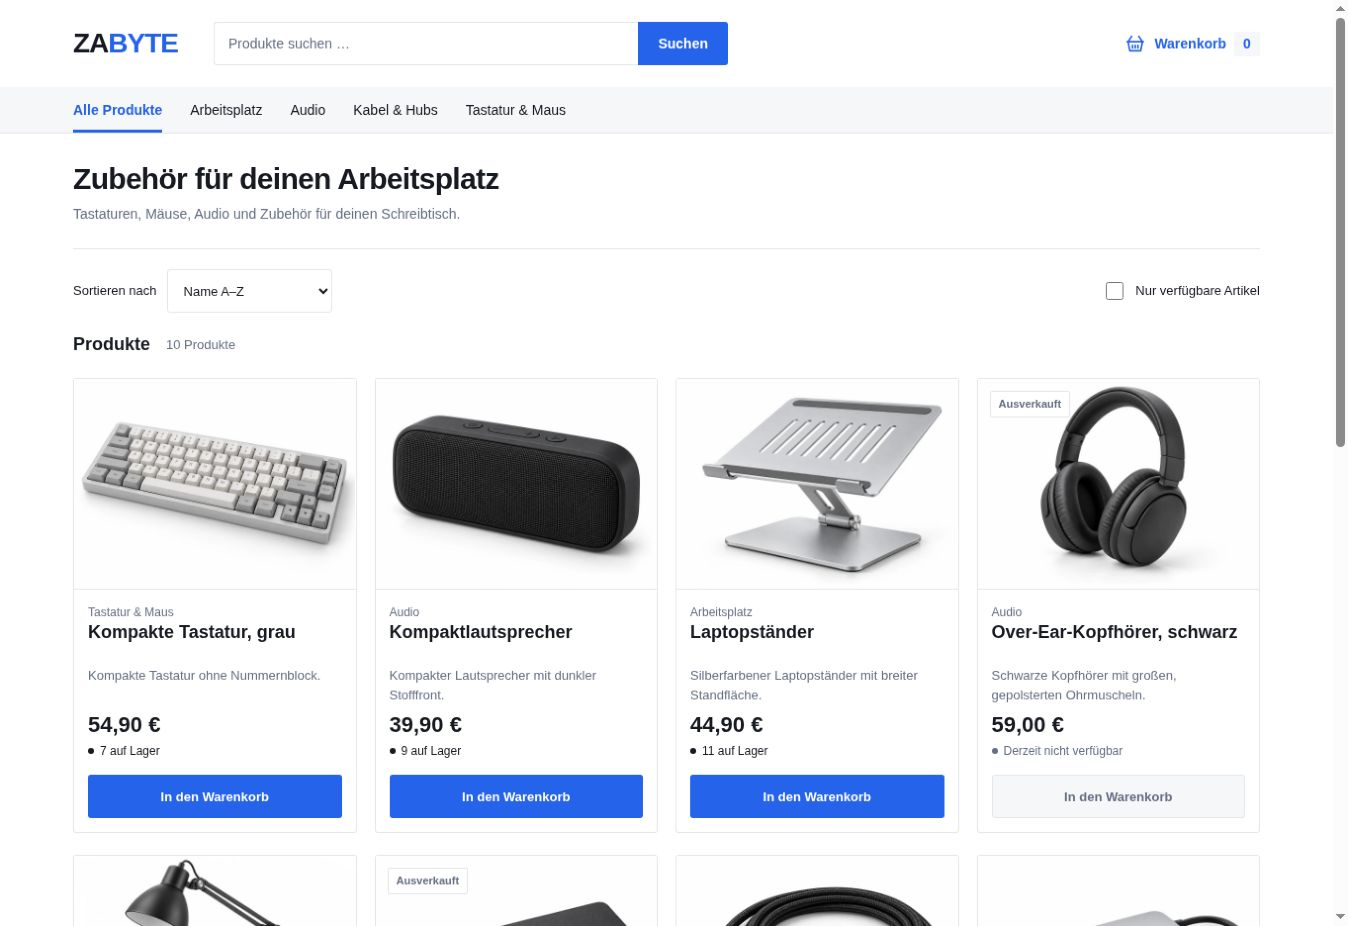
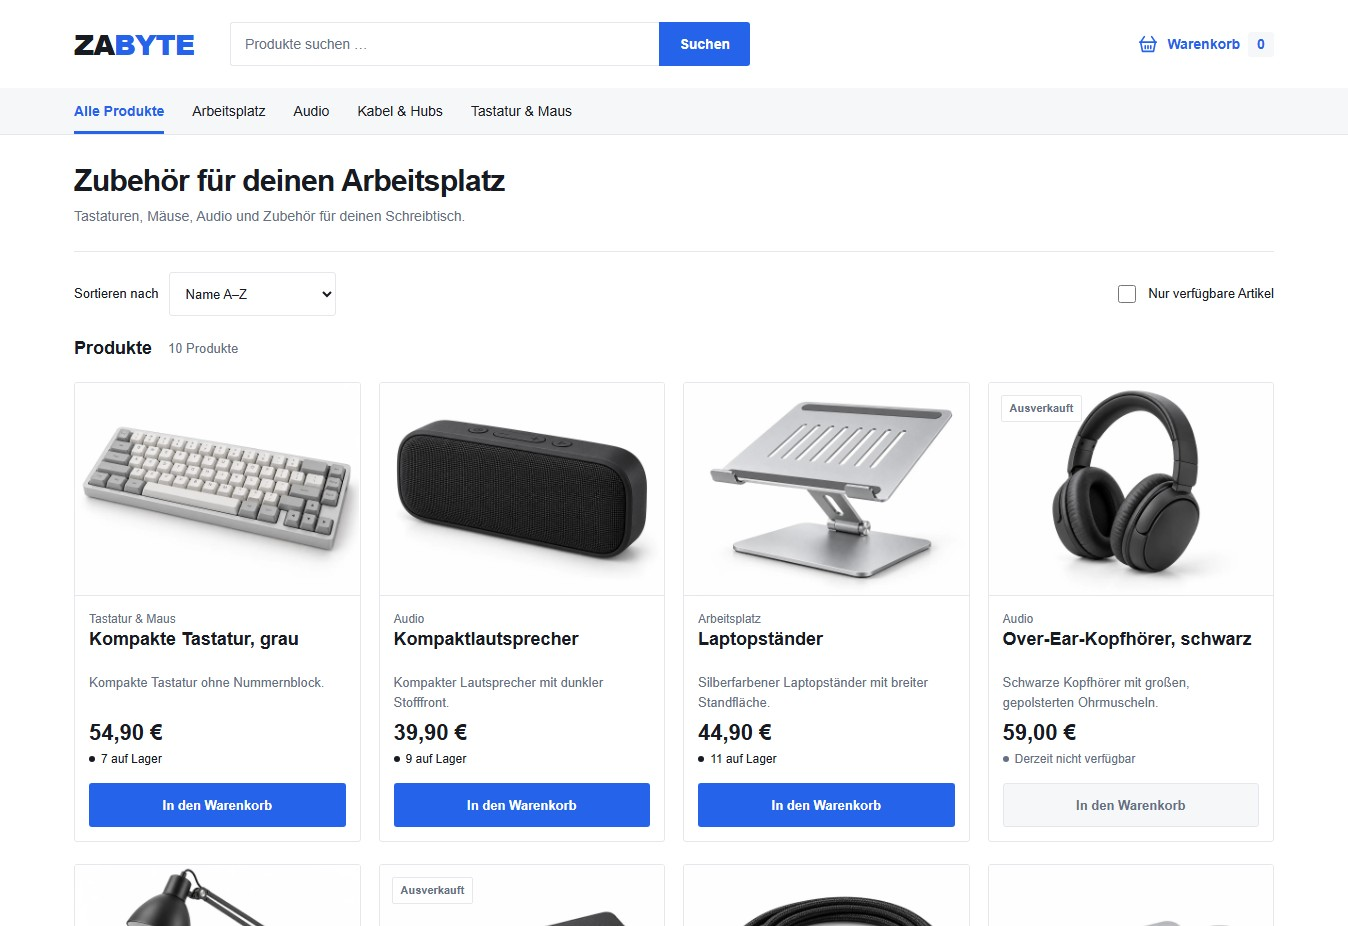
Refresh project screenshots and document verified demos

diff --git a/src/data/projects.ts b/src/data/projects.ts
@@ -53,10 +53,14 @@ export const projects: Project[] = [
       "Termine zum Nachfassen einsehen",
     ],
     technologies: ["Angular", "TypeScript", "Django REST Framework", "SQLite"],
-    implementation: "Das Angular-Frontend kommuniziert über eine REST-API mit dem Django-Backend. Die API prüft die Eingaben und speichert die Bewerbungen in SQLite. Automatisierte Tests überprüfen unter anderem das Anlegen, Bearbeiten und Löschen sowie den Umgang mit ungültigen Daten.",
+    implementation: "Das Angular-Frontend kommuniziert über eine REST-API mit dem Django-Backend. Die API prüft die Eingaben und speichert die Bewerbungen in SQLite. Automatisierte Tests überprüfen unter anderem das Anlegen, Bearbeiten und Löschen sowie den Umgang mit ungültigen Daten. Eine separate Demo-Konfiguration nutzt eine eigene Datenbank mit fiktiven Bewerbungen. Ein Betreiberbefehl stellt die Beispieldaten wieder her.",
     repository: "https://github.com/Zacariasaibel/BewerbungsTracker",
     note: "Lokales MVP mit fiktiven Daten. Keine öffentliche Demo.",
-    images: [{ src: "/images/projects/bewerbungstracker-dashboard.png", alt: "Dashboard des BewerbungsTrackers mit Übersicht und Bewerbungsverwaltung", width: 1093, height: 946 }],
+    images: [
+      { src: "/images/projects/bewerbungstracker-dashboard.png", alt: "Dashboard des BewerbungsTrackers mit Übersicht und Bewerbungsverwaltung", width: 1093, height: 946 },
+      { src: "/images/projects/bewerbungstracker-filter.png", alt: "Bewerbungsliste mit Unternehmenssuche und drei fiktiven Bewerbungen im Status Vorstellungsgespräch", width: 1440, height: 1000 },
+      { src: "/images/projects/bewerbungstracker-formular.png", alt: "Formular für eine neue Bewerbung mit fiktivem Unternehmen, Position und Notizen", width: 1440, height: 1200 },
+    ],
   },
   {
     slug: "olimpoathlete",
@@ -91,7 +95,7 @@ export const projects: Project[] = [
       "CORS-Unterstützung für die Anbindung eines separaten Frontends",
     ],
     technologies: ["Python", "Django REST Framework", "SQLite", "REST / JSON"],
-    implementation: "Generische Views von Django REST Framework stellen die Endpunkte zum Lesen, Anlegen, Aktualisieren und Löschen bereit. Ein Serializer prüft die Eingabefelder und verarbeitet Produkt- und Bestandsdaten. Die Daten werden in SQLite gespeichert und als JSON zurückgegeben.",
+    implementation: "Generische Views von Django REST Framework stellen die Endpunkte zum Lesen, Anlegen, Aktualisieren und Löschen bereit. Ein Serializer prüft die Eingabefelder und weist negative Preise und Bestände zurück. Produkt und Bestand werden gemeinsam in einer Datenbanktransaktion gespeichert. Die API liefert JSON und eine Oberfläche zum Ausprobieren im Browser. Eine vorbereitete Demo-Konfiguration verwendet eine eigene SQLite-Datenbank mit fiktiven Produkten.",
     repository: "https://github.com/Zacariasaibel/product-inventory-api",
     images: [
       { src: "/images/projects/product-inventory-list.png", alt: "Produktliste mit JSON-Daten in der Django REST API", width: 882, height: 925 },

diff --git a/docs/project-review-2026-11-02.md b/docs/project-review-2026-11-02.md
@@ -1,0 +1,44 @@
+# Projektprüfung · 02.11.2026
+
+## Öffentliche Demos
+
+| Projekt | Stand |
+| --- | --- |
+| ZABYTE | https://zaibel.pythonanywhere.com/ und Produkt-API mit HTTP 200 geprüft. Zehn Produkte im Browser geladen. Die bereits bestätigte öffentliche Bestellsimulation bleibt erhalten. |
+| OlimpoAthlete | https://zacariasaibel.github.io/OlimpoAthlete/ nach dem Deployment erneut in Chrome geprüft: Registrierung, Login, drei Coaches, drei Ausstattungen, Tastatur und mobile Pläne funktionieren. |
+| BewerbungsTracker | Vollständige Demo lokal vorbereitet und geprüft. Noch keine öffentliche URL. |
+| Product Inventory API | Navigierbare DRF-Demo lokal vorbereitet und geprüft. Noch keine öffentliche URL. |
+
+Die vier Repository-Links wurden direkt abgerufen und antworteten mit HTTP 200. Die Checkouts wurden anhand ihrer Remotes und Inhalte identifiziert: BewerbungsTracker bleibt auf `master`, die anderen Projekte auf `main`. OlimpoAthlete verwendet weiterhin die bestehende `gh-pages`-Veröffentlichung. Die übergeordnete Projektmappe wurde nicht zu einem Repository gemacht.
+
+## Änderungen und Prüfungen
+
+- **BewerbungsTracker:** separate `demo.sqlite3`, Betreiberbefehl zum Wiederherstellen von zehn fiktiven Bewerbungen und direkte Angular-Routen. 22 Django-Tests, 12 Angular-Tests, 5 TypeScript-Tests und Produktionsbuild bestanden. Chrome mit echter lokaler API: anlegen, ansehen, neu laden, bearbeiten, suchen, filtern und löschen. Hauptansichten bei 390 Pixeln ohne horizontales Überlaufen. Zwei neue echte Screenshots: gefilterte Liste und vollständiges Formular. Der bisherige Dashboard-Screenshot bleibt erhalten.
+- **Inventory:** negative Preise und Bestände werden abgewiesen. Produkt und Stock werden atomar gespeichert. Die Antwort enthält den aktualisierten Bestand. Separate Demo-Datenbank und Wiederherstellungsbefehl. 12 Django-Tests bestanden, keine Migration nötig. Chrome mit echtem lokalem HTTP: GET 200, POST 201, PUT/PATCH 200, ungültige Eingaben 400, DELETE 204 und anschließend 404. DRF-Liste und Formular bei 1440 und 390 Pixeln geprüft. Für dieses reine Backend ist kein Frontend-Build nötig.
+- **OlimpoAthlete:** ganze Trainingstage validiert, beschädigtes oder gesperrtes Local Storage abgefangen, Coachwahl per Tastatur und Menüwechsel korrigiert. Veraltete Pläne werden bei Profiländerungen ausgeblendet. Simulierter Checkout deutlicher beschrieben. 17 Tests und Produktionsbuild bestanden. axe-core 4.14.0 meldete auf Startseite, Zugang, Plan und Checkout bei 1440 und 390 Pixeln keine Verstöße. Das ersetzt keine vollständige manuelle Barrierefreiheitsprüfung. Für Angular 22 wurde temporär ein offizieller Node 24.22.2 mit geprüftem SHA-256 genutzt; keine Projektabhängigkeit wurde geändert.
+- **ZABYTE:** README bestätigt die funktionierende öffentliche Demo. Neue echte Hauptaufnahme ohne graue Seitenleiste, identisch im Portfolio und unter `ECommerceShop/docs/screenshots/01-inicio.jpg`, weiterhin 1348 × 926. Nur die temporäre Browseransicht für die Aufnahme wurde verändert. 37 Django-Tests, Warenkorb- und Filterprüfungen sowie Angular-Build bestanden. Die vollständige E2E-Suite wurde in dieser Sitzung nicht erneut ausgeführt.
+- **Portfolio:** Astro-Build mit fünf Seiten bestanden. Chrome gegen den Produktionsbuild bei 1440 und 390 Pixeln: vier Karten, zwei beziehungsweise eine Spalte und gleich positionierte Links. Desktop-Miniaturen messen 562 × 281 Pixel; gegenüber 16:10 sind sie 20 % niedriger. Mobile Miniaturen behalten 16:10. Alle vier Detailseiten direkt geladen, alle Bilder vorhanden und proportional. Keine JavaScript-Ausnahmen. Die Detailbilder erhalten keine Miniatur-Stile. Persönliche Angaben und „Sprachen: Deutsch · Spanisch · Englisch“ bleiben erhalten.
+
+`git diff --check` wurde für alle betroffenen Repositories ausgeführt. Neue Abhängigkeiten wurden nicht hinzugefügt. Vorhandene lokale Dokumentations- und Integrationsänderungen in ZABYTE bleiben erhalten und wurden mit Ausnahme des ausdrücklich zu aktualisierenden README und Hauptbildes nicht in die neuen Commits aufgenommen.
+
+## Fehlendes Hosting
+
+Für BewerbungsTracker und Inventory fehlen zusätzliche verfügbare Hosting-Apps und deren Zugang. Die kostenlose PythonAnywhere-Stufe bietet nur eine Web-App; ZABYTE darf dafür nicht ersetzt werden. Es wurde kein Konto erstellt, kein Tarif geändert und kein kostenpflichtiger Dienst gestartet. Beide Demos haben ihre eigenen Datenbanken und dokumentierten WSGI-Konfigurationen. Es wurden keine persönlichen Datenbanken kopiert.
+
+Nächste Schritte:
+
+1. Zwei unabhängige, bereits autorisierte kostenlose WSGI-Apps mit Zugang bereitstellen. Die bestehende ZABYTE-App bleibt unverändert.
+2. Die jeweilige `docs/demo-deployment.md` befolgen: privater Schlüssel, echter Host, eigene virtuelle Umgebung, leere Demo-Datenbank, Migrationen, Beispieldaten und statische Dateien. Beim Tracker zusätzlich den Angular-Build verwenden.
+3. Beide öffentlichen URLs mit CRUD, Validierungen, direktem Laden und mobiler Ansicht prüfen. Erst danach `demo` in `src/data/projects.ts` eintragen; das bestehende Layout zeigt dann „Live-Demo öffnen“.
+
+Die vorbereiteten Demos erlauben gemeinsames Bearbeiten fiktiver Daten. Sie sind keine privaten Benutzerkonten und keine dauerhafte Ablage.
+
+Offizielle Hosting-Dokumentation: [Django bereitstellen](https://help.pythonanywhere.com/pages/DeployExistingDjangoProject/), [Grenzen kostenloser Konten](https://help.pythonanywhere.com/pages/FreeAccountsFeatures/).
+
+## Empfehlungen für spätere Erweiterungen
+
+- `ECommerceShop/frontend/src/app/cart.service.ts`: Persistenz erst ab einer weiteren Speicherart auslagern; die bestehenden Preis-, Bestands- und Wiederholungsprüfungen zusammen erhalten.
+- `BewerbungsTracker/frontend/src/app/application-form.ts`: Fehlerübersetzung bei deutlich mehr Formularfeldern abtrennen. Der jetzige Umfang rechtfertigt keinen zusätzlichen Service.
+- `OlimpoAthlete/src/app/components/onboarding/onboarding.ts`: bei wachsender Übungsbibliothek Daten in eine typisierte Datei auslagern. `src/app/app.ts` bei weiteren Ansichten auf einen eindeutigen View-Zustand umstellen.
+
+Diese Empfehlungen sind keine offenen Fehler des geprüften Umfangs. Die Veröffentlichung und ihre öffentliche Nachprüfung werden im Abschlussbericht getrennt von den lokalen Prüfungen angegeben.

diff --git a/README.md b/README.md
@@ -13,13 +13,11 @@ Mein Portfolio für ein Pflichtpraktikum als Fachinformatiker für Anwendungsent
 
 - **[ZABYTE](https://github.com/Zacariasaibel/ZABYTE)**: Fullstack-Shop mit Angular, TypeScript, Django REST Framework und SQLite. Produktsuche und Filter, persistenter Warenkorb und serverseitig validierte Bestellsimulation. [Live-Demo](https://zaibel.pythonanywhere.com/). Keine echten Zahlungen oder Lieferungen.
 
-- **[BewerbungsTracker](https://github.com/Zacariasaibel/BewerbungsTracker)**: Angular, TypeScript, Django REST Framework und SQLite. Bewerbungen verwalten, nach Unternehmen suchen und nach Status filtern. Mit Übersicht und Terminen zum Nachfassen. Lokales MVP mit fiktiven Daten, ohne öffentliche Demo.
+- **[BewerbungsTracker](https://github.com/Zacariasaibel/BewerbungsTracker)**: Bewerbungen verwalten, suchen und nach Status filtern. Angular, Django REST Framework und SQLite. Mit Übersicht, Terminen zum Nachfassen und getrennten Demo-Daten. Noch keine öffentliche Demo.
 - **[OlimpoAthlete](https://github.com/Zacariasaibel/OlimpoAthlete)**: Angular-Prototyp für regelbasierte Trainingspläne. [Live-Demo](https://zacariasaibel.github.io/OlimpoAthlete/).
-- **[Product Inventory API](https://github.com/Zacariasaibel/product-inventory-api)**: REST-API zur Produktverwaltung mit Django REST Framework und SQLite.
+- **[Product Inventory API](https://github.com/Zacariasaibel/product-inventory-api)**: Produktverwaltung mit Django REST Framework und SQLite. Browserformulare, geprüfte Preise und Bestände sowie getrennte Demo-Daten. Noch keine öffentliche Demo.
 
 Das Portfolio zeigt echte Projektaufnahmen sowie Informationen zu mir, meinen Kenntnissen und zur Kontaktaufnahme.
-
-Die Startseite beginnt mit einer persönlichen Vorstellung und einem Porträt. Auf die Projekte folgen „Über mich“ und „Kenntnisse“ mit Links zu passenden Projekten. Die Praktikumsdaten und drei Kontaktkarten schließen die Seite ab. E-Mail ist der wichtigste Kontaktweg.
 
 Die Startseite zeigt vier kompakte Projektkarten. Jede Karte führt zu einer eigenen Detailseite mit Ziel, Funktionen, Screenshots, Technologien und technischer Umsetzung:
 
@@ -32,7 +30,7 @@ Die gemeinsamen Projektdaten stehen in `src/data/projects.ts`. `src/layouts/Proj
 
 ## Lokal öffnen
 
-Voraussetzung: Node.js ab 22.12.0. Die Abhängigkeiten sind bereits installiert.
+Voraussetzung: Node.js ab 22.12.0. In einem neuen Checkout zuerst `npm.cmd ci` ausführen.
 
 ```sh
 npm.cmd run dev
@@ -53,7 +51,7 @@ Die Vorschau ist normalerweise unter `http://localhost:4321/` erreichbar. Maßge
 
 Astro, HTML und CSS, ohne zusätzliche UI-Bibliotheken. Das Layout passt sich an Smartphones und Desktopbildschirme an. Es enthält eine Sprungnavigation, sichtbare Tastaturfokusse und Bildbeschreibungen.
 
-Die bestehende GitHub-Pages-Konfiguration bleibt erhalten. Der Workflow in `.github/workflows/` veröffentlicht bei einem Push auf `main` oder bei manueller Ausführung. Commits, Push und Veröffentlichung führt der Repository-Inhaber aus.
+Der bestehende Workflow in `.github/workflows/` veröffentlicht bei einem Push auf `main` oder bei manueller Ausführung auf GitHub Pages. Der [Prüfbericht](docs/project-review-2026-11-02.md) unterscheidet lokale Prüfungen, öffentliche Demos und noch fehlendes Hosting.
 
 ## Kontakt
 
